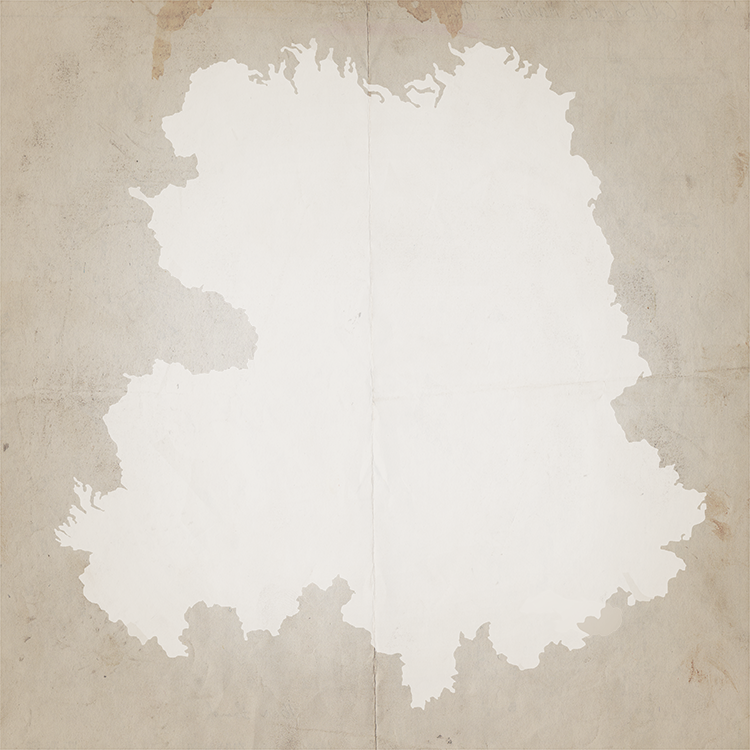
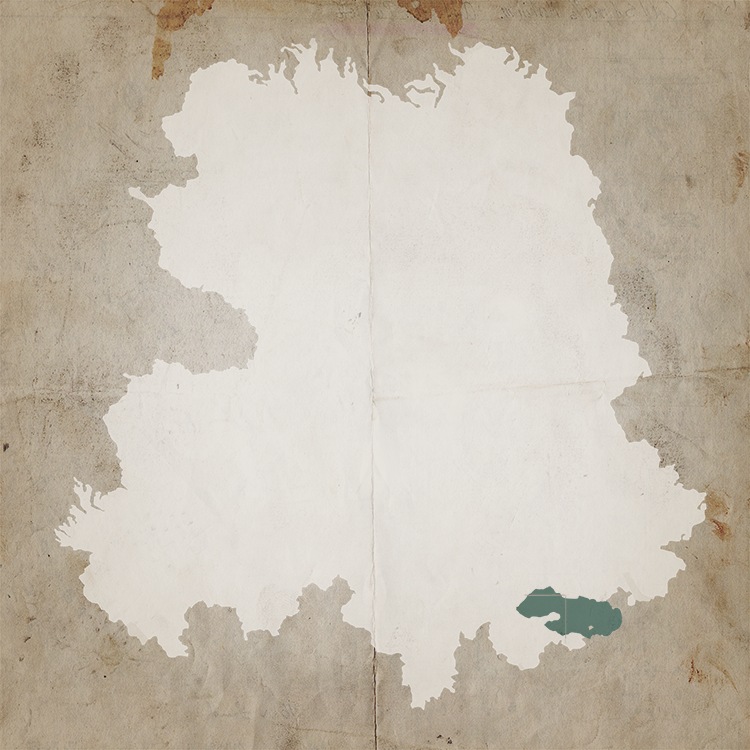
progress bar (in progress)

diff --git a/index.html b/index.html
@@ -4,6 +4,8 @@
     <meta charset="utf-8">
     <meta http-equiv="X-UA-Compatible" content="IE=edge">
     <meta name="viewport" content="width=device-width, initial-scale=1">
+    <meta name="pinterest" content="nopin" />
+
     <!-- The above 3 meta tags *must* come first in the head; any other head content must come *after* these tags -->
     <title>Awesome Free Knowledge Game!</title>
 
@@ -50,6 +52,10 @@
                 <img src="img/county_8.png" class="img-responsive map-layer map-layer-success county-countryside3" alt="Map" />
                 
                 <img src="img/overlay.png" class="img-responsive map-layer" alt="Map" />
+                
+                <div id="progress_bar">
+                    <img src="img/progress_bar.png" class="img-responsive map-layer" alt="Progress" />
+                </div>
             </div>
             <div class=" col-xs-5 col-sm-5 col-md-5 col-lg-5">
                 <h2>What will you do?</h2>

diff --git a/js/render.js b/js/render.js
@@ -22,7 +22,16 @@ function update_map(region_id, player_support) {
     }
 }
 
-function random_coloring() {
+function update_progress(player_support) {
+    $('#progress_bar').css('width', player_support + 'px');
+}
+
+function random_progress() {  // just for testing purposes
+    update_progress(Math.floor((Math.random() * 100)));
+    setTimeout(random_progress, 1000);
+}
+
+function random_coloring() {  // just for testing purposes
     $(counties).each(function(i, el) {
         update_map(el.id, Math.floor((Math.random() * 100)));
     });
@@ -38,6 +47,7 @@ $(function() {
         alert($(this).text());
     });    
     
-    // test colouring
+    // test colouring and progress
     random_coloring();
+    random_progress();
 });

diff --git a/css/index.css b/css/index.css
@@ -29,3 +29,7 @@ html, body {
 .map-layer-failure {
     display: none;
 }
+
+#progress_bar {
+    overflow: hidden;
+}
